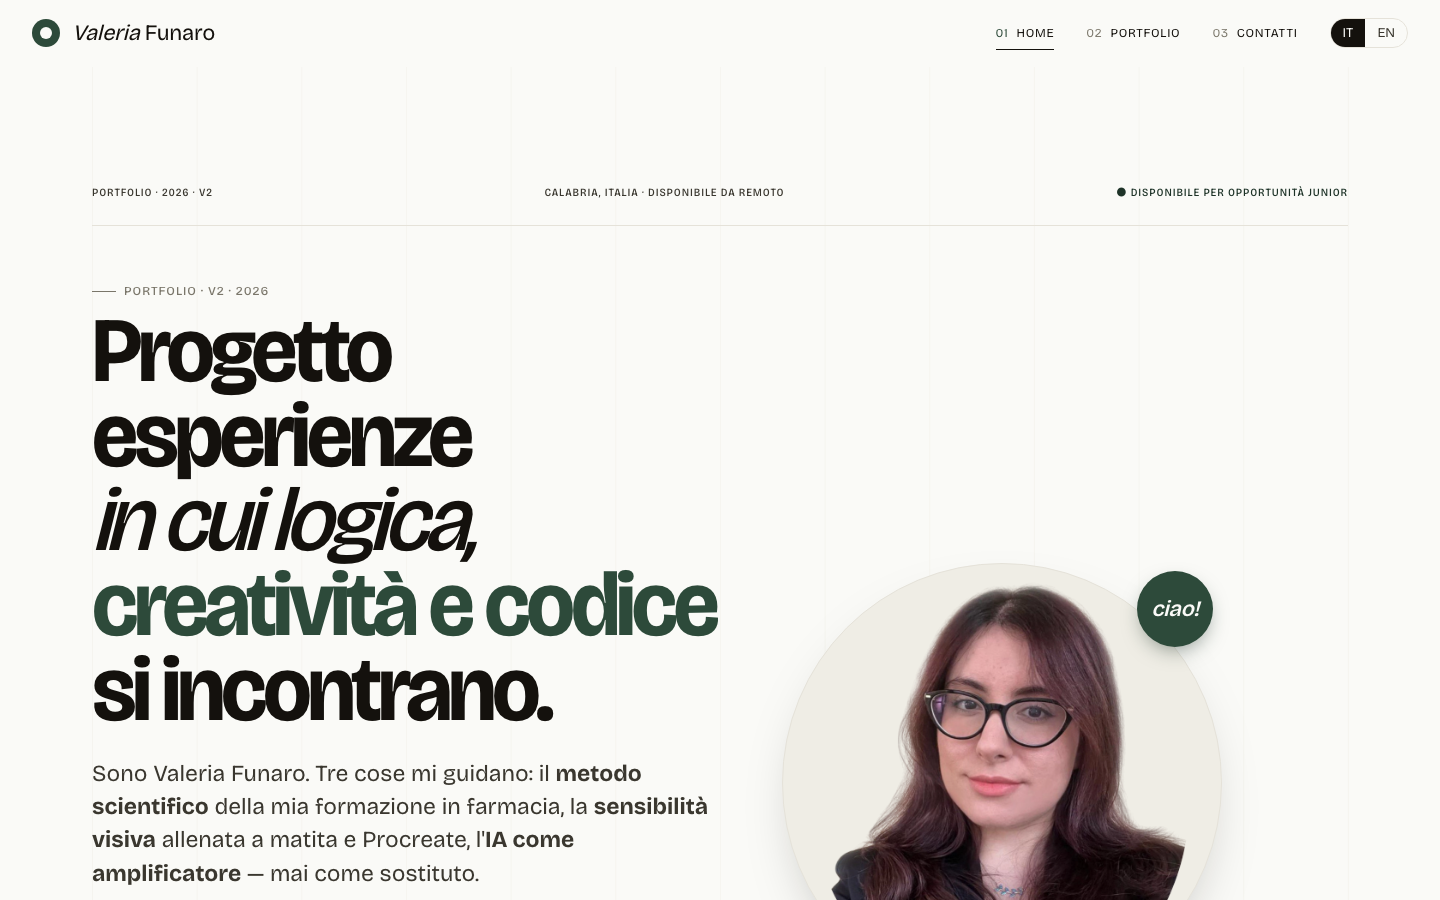
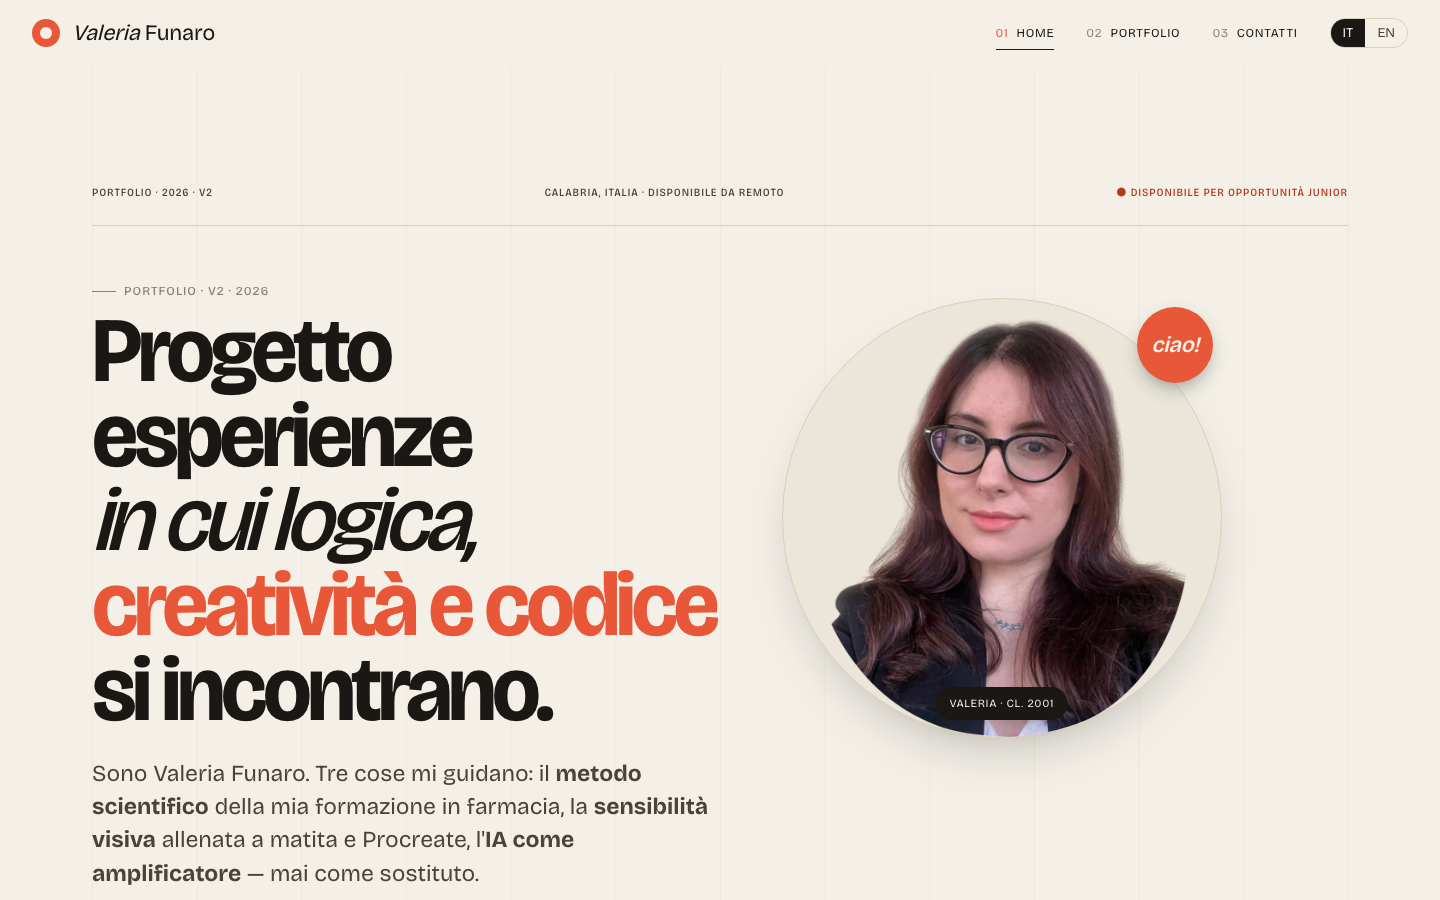
Revert palette to cream+coral; align portrait top with headline
- Token CSS: --green* tornano a --coral*, ripristinati i 5 token bg/ink/rule
  alla palette crema originale (#F4F0E8, #E85838 accent)
- Hero split layout: align-items center + portrait align-self start
  con margin-top 24px, foto ora in linea con la H1 invece che in basso
- Foto resta circolare e a colori naturali (no duotone, no filter)
- Tipografia Bricolage Grotesque invariata

diff --git a/styles.css b/styles.css
@@ -6,24 +6,24 @@
 @import url('https://fonts.googleapis.com/css2?family=Bricolage+Grotesque:opsz,wdth,wght@12..96,75..100,200..800&display=swap');
 
 :root {
-  /* Colori — palette off-white + verde bosco */
-  --bg:        #FAFAF7;            /* off-white caldo */
-  --bg-elev:   #FFFFFF;            /* card più chiare */
-  --bg-deep:   #EFEDE5;            /* sezione alternativa */
-  --ink:       #14110D;            /* inchiostro nero */
-  --ink-soft:  #3A372F;            /* testo secondario */
-  --ink-mute:  #7A766A;            /* meta */
-  --rule:      #E5E2D9;            /* hairline */
-  --rule-soft: #EDEAE1;
+  /* Colori — palette crema caldo + coral (originale v2) */
+  --bg:        #F4F0E8;            /* crema caldo */
+  --bg-elev:   #FBF8F2;             /* crema più chiaro per card */
+  --bg-deep:   #ECE6DA;             /* sezione alternativa */
+  --ink:       #1A1714;             /* inchiostro caldo */
+  --ink-soft:  #4A433C;             /* testo secondario */
+  --ink-mute:  #8A7F73;             /* meta */
+  --rule:      #D9CFBE;             /* hairline */
+  --rule-soft: #E4DCCB;
 
-  --green:      #2D4A3A;           /* accento primario: verde bosco */
-  --green-deep: #1E3328;
-  --green-soft: #DDE5DC;
+  --coral:      #E85838;           /* accento primario */
+  --coral-deep: #B43A1C;
+  --coral-soft: #FBDDCF;
 
   --plum:     #3E2A6E;             /* badge "AI" nel diff slider */
   --plum-soft:#E2DAF0;
 
-  --moss:     #6B7A48;             /* badge "mano" nel diff slider */
+  --moss:     #515E3A;             /* badge "mano" nel diff slider */
   --sky:      #2F4A6E;
 
   /* Tipografia — Bricolage Grotesque variabile (opsz, wdth, wght) */
@@ -52,7 +52,7 @@
 
 /* ---------- Reset minimo ---------- */
 * { box-sizing: border-box; }
-*::selection { background: var(--green); color: var(--bg); }
+*::selection { background: var(--coral); color: var(--bg); }
 html { scroll-behavior: smooth; }
 html, body {
   margin: 0;
@@ -177,7 +177,7 @@ h3 { font-size: 22px; font-weight: 600; letter-spacing: -0.01em; }
 .nav-mark .dot {
   width: 28px; height: 28px;
   border-radius: 50%;
-  background: var(--green);
+  background: var(--coral);
   display: inline-block;
   position: relative;
 }
@@ -220,7 +220,7 @@ h3 { font-size: 22px; font-weight: 600; letter-spacing: -0.01em; }
   transition: width .25s ease;
 }
 .nav-link:hover::after, .nav-link.active::after { width: 100%; }
-.nav-link.active .num { color: var(--green); }
+.nav-link.active .num { color: var(--coral); }
 
 .lang-toggle {
   display: inline-flex;
@@ -288,9 +288,12 @@ h3 { font-size: 22px; font-weight: 600; letter-spacing: -0.01em; }
   display: grid;
   grid-template-columns: 1.05fr 0.95fr;
   gap: var(--s-8);
-  align-items: end;
+  align-items: center;
 }
-.hero[data-layout="split"] .hero-portrait-wrap { margin-top: 0; }
+.hero[data-layout="split"] .hero-portrait-wrap {
+  align-self: start;
+  margin-top: 24px;
+}
 .hero[data-layout="split"] .display { font-size: clamp(48px, 6.4vw, 104px); }
 
 /* Layout: ASYMMETRIC */
@@ -323,7 +326,7 @@ h3 { font-size: 22px; font-weight: 600; letter-spacing: -0.01em; }
 }
 
 .hero-headline .display { margin-top: var(--s-2); }
-.hero-headline .display .accent { color: var(--green); }
+.hero-headline .display .accent { color: var(--coral); }
 .hero-headline .lead { margin-top: var(--s-5); }
 
 .hero-stats {
@@ -382,7 +385,7 @@ h3 { font-size: 22px; font-weight: 600; letter-spacing: -0.01em; }
   top: 2%; right: 2%;
   width: 76px; height: 76px;
   border-radius: 50%;
-  background: var(--green);
+  background: var(--coral);
   display: grid; place-items: center;
   font-family: var(--font-display);
   font-style: italic;
@@ -414,7 +417,7 @@ h3 { font-size: 22px; font-weight: 600; letter-spacing: -0.01em; }
   line-height: 1;
 }
 .now-bar-track span { display: inline-flex; align-items: center; gap: var(--s-5); }
-.now-bar-track .star { color: var(--green); }
+.now-bar-track .star { color: var(--coral); }
 @keyframes scroll-x {
   from { transform: translateX(0); }
   to   { transform: translateX(-50%); }
@@ -442,9 +445,9 @@ h3 { font-size: 22px; font-weight: 600; letter-spacing: -0.01em; }
   text-wrap: pretty;
   color: var(--ink);
 }
-.about-text p .accent { color: var(--green); font-style: italic; }
+.about-text p .accent { color: var(--coral); font-style: italic; }
 .about-text p .underline {
-  background-image: linear-gradient(transparent 70%, var(--green-soft) 70%);
+  background-image: linear-gradient(transparent 70%, var(--coral-soft) 70%);
 }
 .about-meta-list {
   font-family: var(--font-mono);
@@ -472,7 +475,7 @@ h3 { font-size: 22px; font-weight: 600; letter-spacing: -0.01em; }
   padding: var(--s-10) 0;
   position: relative;
 }
-.principles .eyebrow { color: var(--green-soft); }
+.principles .eyebrow { color: var(--coral-soft); }
 .principles h2 { color: var(--bg); }
 .principles-intro {
   display: grid;
@@ -505,7 +508,7 @@ h3 { font-size: 22px; font-weight: 600; letter-spacing: -0.01em; }
   font-family: var(--font-mono);
   font-size: 11px;
   letter-spacing: 0.06em;
-  color: var(--green);
+  color: var(--coral);
 }
 .principle h3 {
   font-family: var(--font-display);
@@ -565,7 +568,7 @@ h3 { font-size: 22px; font-weight: 600; letter-spacing: -0.01em; }
   position: absolute;
   left: 0; top: 0; bottom: 0;
   width: var(--lv, 60%);
-  background: var(--green);
+  background: var(--coral);
   border-radius: 2px;
 }
 
@@ -645,7 +648,7 @@ h3 { font-size: 22px; font-weight: 600; letter-spacing: -0.01em; }
   left: 50%;
   width: 44px; height: 44px;
   border-radius: 50%;
-  background: var(--green);
+  background: var(--coral);
   transform: translate(-50%, -50%);
   display: grid;
   place-items: center;
@@ -750,7 +753,7 @@ h3 { font-size: 22px; font-weight: 600; letter-spacing: -0.01em; }
   border-radius: 50%;
   flex-shrink: 0;
 }
-.diff-row.metodo .diff-badge::before { background: var(--green); }
+.diff-row.metodo .diff-badge::before { background: var(--coral); }
 .diff-row.ai     .diff-badge::before { background: var(--plum); }
 .diff-row.mano   .diff-badge::before { background: var(--moss); }
 
@@ -794,7 +797,7 @@ h3 { font-size: 22px; font-weight: 600; letter-spacing: -0.01em; }
   background: var(--bg-deep);
   padding: var(--s-3) var(--s-4);
   border-radius: var(--radius-sm);
-  border-left: 2px solid var(--green);
+  border-left: 2px solid var(--coral);
 }
 
 /* Timeline degli step sotto annotation */
@@ -824,7 +827,7 @@ h3 { font-size: 22px; font-weight: 600; letter-spacing: -0.01em; }
   font-family: var(--font-display);
   font-style: italic;
   font-size: 15px;
-  color: var(--green);
+  color: var(--coral);
   letter-spacing: -0.02em;
   font-feature-settings: 'tnum';
 }
@@ -834,7 +837,7 @@ h3 { font-size: 22px; font-weight: 600; letter-spacing: -0.01em; }
   border-color: var(--ink);
   color: var(--bg);
 }
-.diff-step.on .step-num { color: var(--green-soft); }
+.diff-step.on .step-num { color: var(--coral-soft); }
 .diff-step:focus-visible {
   outline: 2px solid var(--ink);
   outline-offset: 3px;
@@ -892,7 +895,7 @@ h3 { font-size: 22px; font-weight: 600; letter-spacing: -0.01em; }
   border: 0;
   transition: background .2s ease, transform .2s ease;
 }
-.btn:hover { background: var(--green); transform: translateY(-1px); }
+.btn:hover { background: var(--coral); transform: translateY(-1px); }
 .btn .arrow {
   display: inline-block;
   transition: transform .2s ease;
@@ -948,7 +951,7 @@ h3 { font-size: 22px; font-weight: 600; letter-spacing: -0.01em; }
 .timeline-item p { margin: 0; color: var(--ink-soft); font-size: 15px; }
 .timeline-item.now .title::before {
   content: "●";
-  color: var(--green);
+  color: var(--coral);
   margin-right: var(--s-2);
   font-size: 14px;
   vertical-align: middle;
@@ -1012,7 +1015,7 @@ h3 { font-size: 22px; font-weight: 600; letter-spacing: -0.01em; }
 }
 .project-card:hover .project-thumb img { transform: scale(1.04); }
 .project-info { padding: var(--s-5); display: flex; flex-direction: column; gap: var(--s-3); flex: 1; }
-.project-info .label-mono { color: var(--green-deep); }
+.project-info .label-mono { color: var(--coral-deep); }
 .project-info h3 {
   font-family: var(--font-display);
   font-size: 32px;
@@ -1042,7 +1045,7 @@ h3 { font-size: 22px; font-weight: 600; letter-spacing: -0.01em; }
 }
 .project-actions a:hover { background: var(--ink); color: var(--bg); }
 .project-actions a.primary { background: var(--ink); color: var(--bg); }
-.project-actions a.primary:hover { background: var(--green); border-color: var(--green); }
+.project-actions a.primary:hover { background: var(--coral); border-color: var(--coral); }
 
 .project-card.coming-soon {
   border: 1px dashed var(--ink-mute);
@@ -1062,7 +1065,7 @@ h3 { font-size: 22px; font-weight: 600; letter-spacing: -0.01em; }
 /* Art gallery — masonry-ish */
 .gallery-section { background: var(--ink); color: var(--bg); padding: var(--s-10) 0; }
 .gallery-section h2 { color: var(--bg); }
-.gallery-section .eyebrow { color: var(--green-soft); }
+.gallery-section .eyebrow { color: var(--coral-soft); }
 .gallery-intro {
   display: grid;
   grid-template-columns: 1.2fr 1fr;
@@ -1176,7 +1179,7 @@ h3 { font-size: 22px; font-weight: 600; letter-spacing: -0.01em; }
 }
 .contact-info .row:last-child { border-bottom: 1px solid var(--rule); }
 .contact-info .row .k { color: var(--ink-mute); text-transform: uppercase; }
-.contact-info .row .v a:hover { color: var(--green); }
+.contact-info .row .v a:hover { color: var(--coral); }
 
 .contact-form {
   background: var(--bg-elev);
@@ -1210,7 +1213,7 @@ h3 { font-size: 22px; font-weight: 600; letter-spacing: -0.01em; }
 .field input:focus, .field textarea:focus, .field select:focus {
   outline: none;
   border-color: var(--ink);
-  box-shadow: 0 0 0 4px var(--green-soft);
+  box-shadow: 0 0 0 4px var(--coral-soft);
 }
 .field textarea { min-height: 140px; resize: vertical; }
 .field .chips { display: flex; gap: 6px; flex-wrap: wrap; }
@@ -1272,7 +1275,7 @@ h3 { font-size: 22px; font-weight: 600; letter-spacing: -0.01em; }
 }
 .footer-socials { display: flex; gap: var(--s-5); }
 .footer-socials a { color: var(--bg); transition: color .2s ease; }
-.footer-socials a:hover { color: var(--green); }
+.footer-socials a:hover { color: var(--coral); }
 
 /* ---------- Tweaks panel custom ---------- */
 .tweak-panel {

diff --git a/app.js b/app.js
@@ -82,7 +82,7 @@
     return `
       <footer class="footer">
         <div class="container">
-          <p class="eyebrow no-dash" style="color: var(--green-soft)">${T.footer.h}</p>
+          <p class="eyebrow no-dash" style="color: var(--coral-soft)">${T.footer.h}</p>
           <h2 class="display">Valeria <i>Funaro.</i></h2>
           <hr class="footer-rule" />
           <div class="footer-bottom">
@@ -129,7 +129,7 @@
             <div class="hero-meta-row">
               <span class="label-mono">${T.meta.year}</span>
               <span class="label-mono">${T.meta.based}</span>
-              <span class="label-mono" style="color: var(--green-deep)">● ${T.meta.status}</span>
+              <span class="label-mono" style="color: var(--coral-deep)">● ${T.meta.status}</span>
             </div>
             <div class="hero-body">
               <div class="hero-headline">
